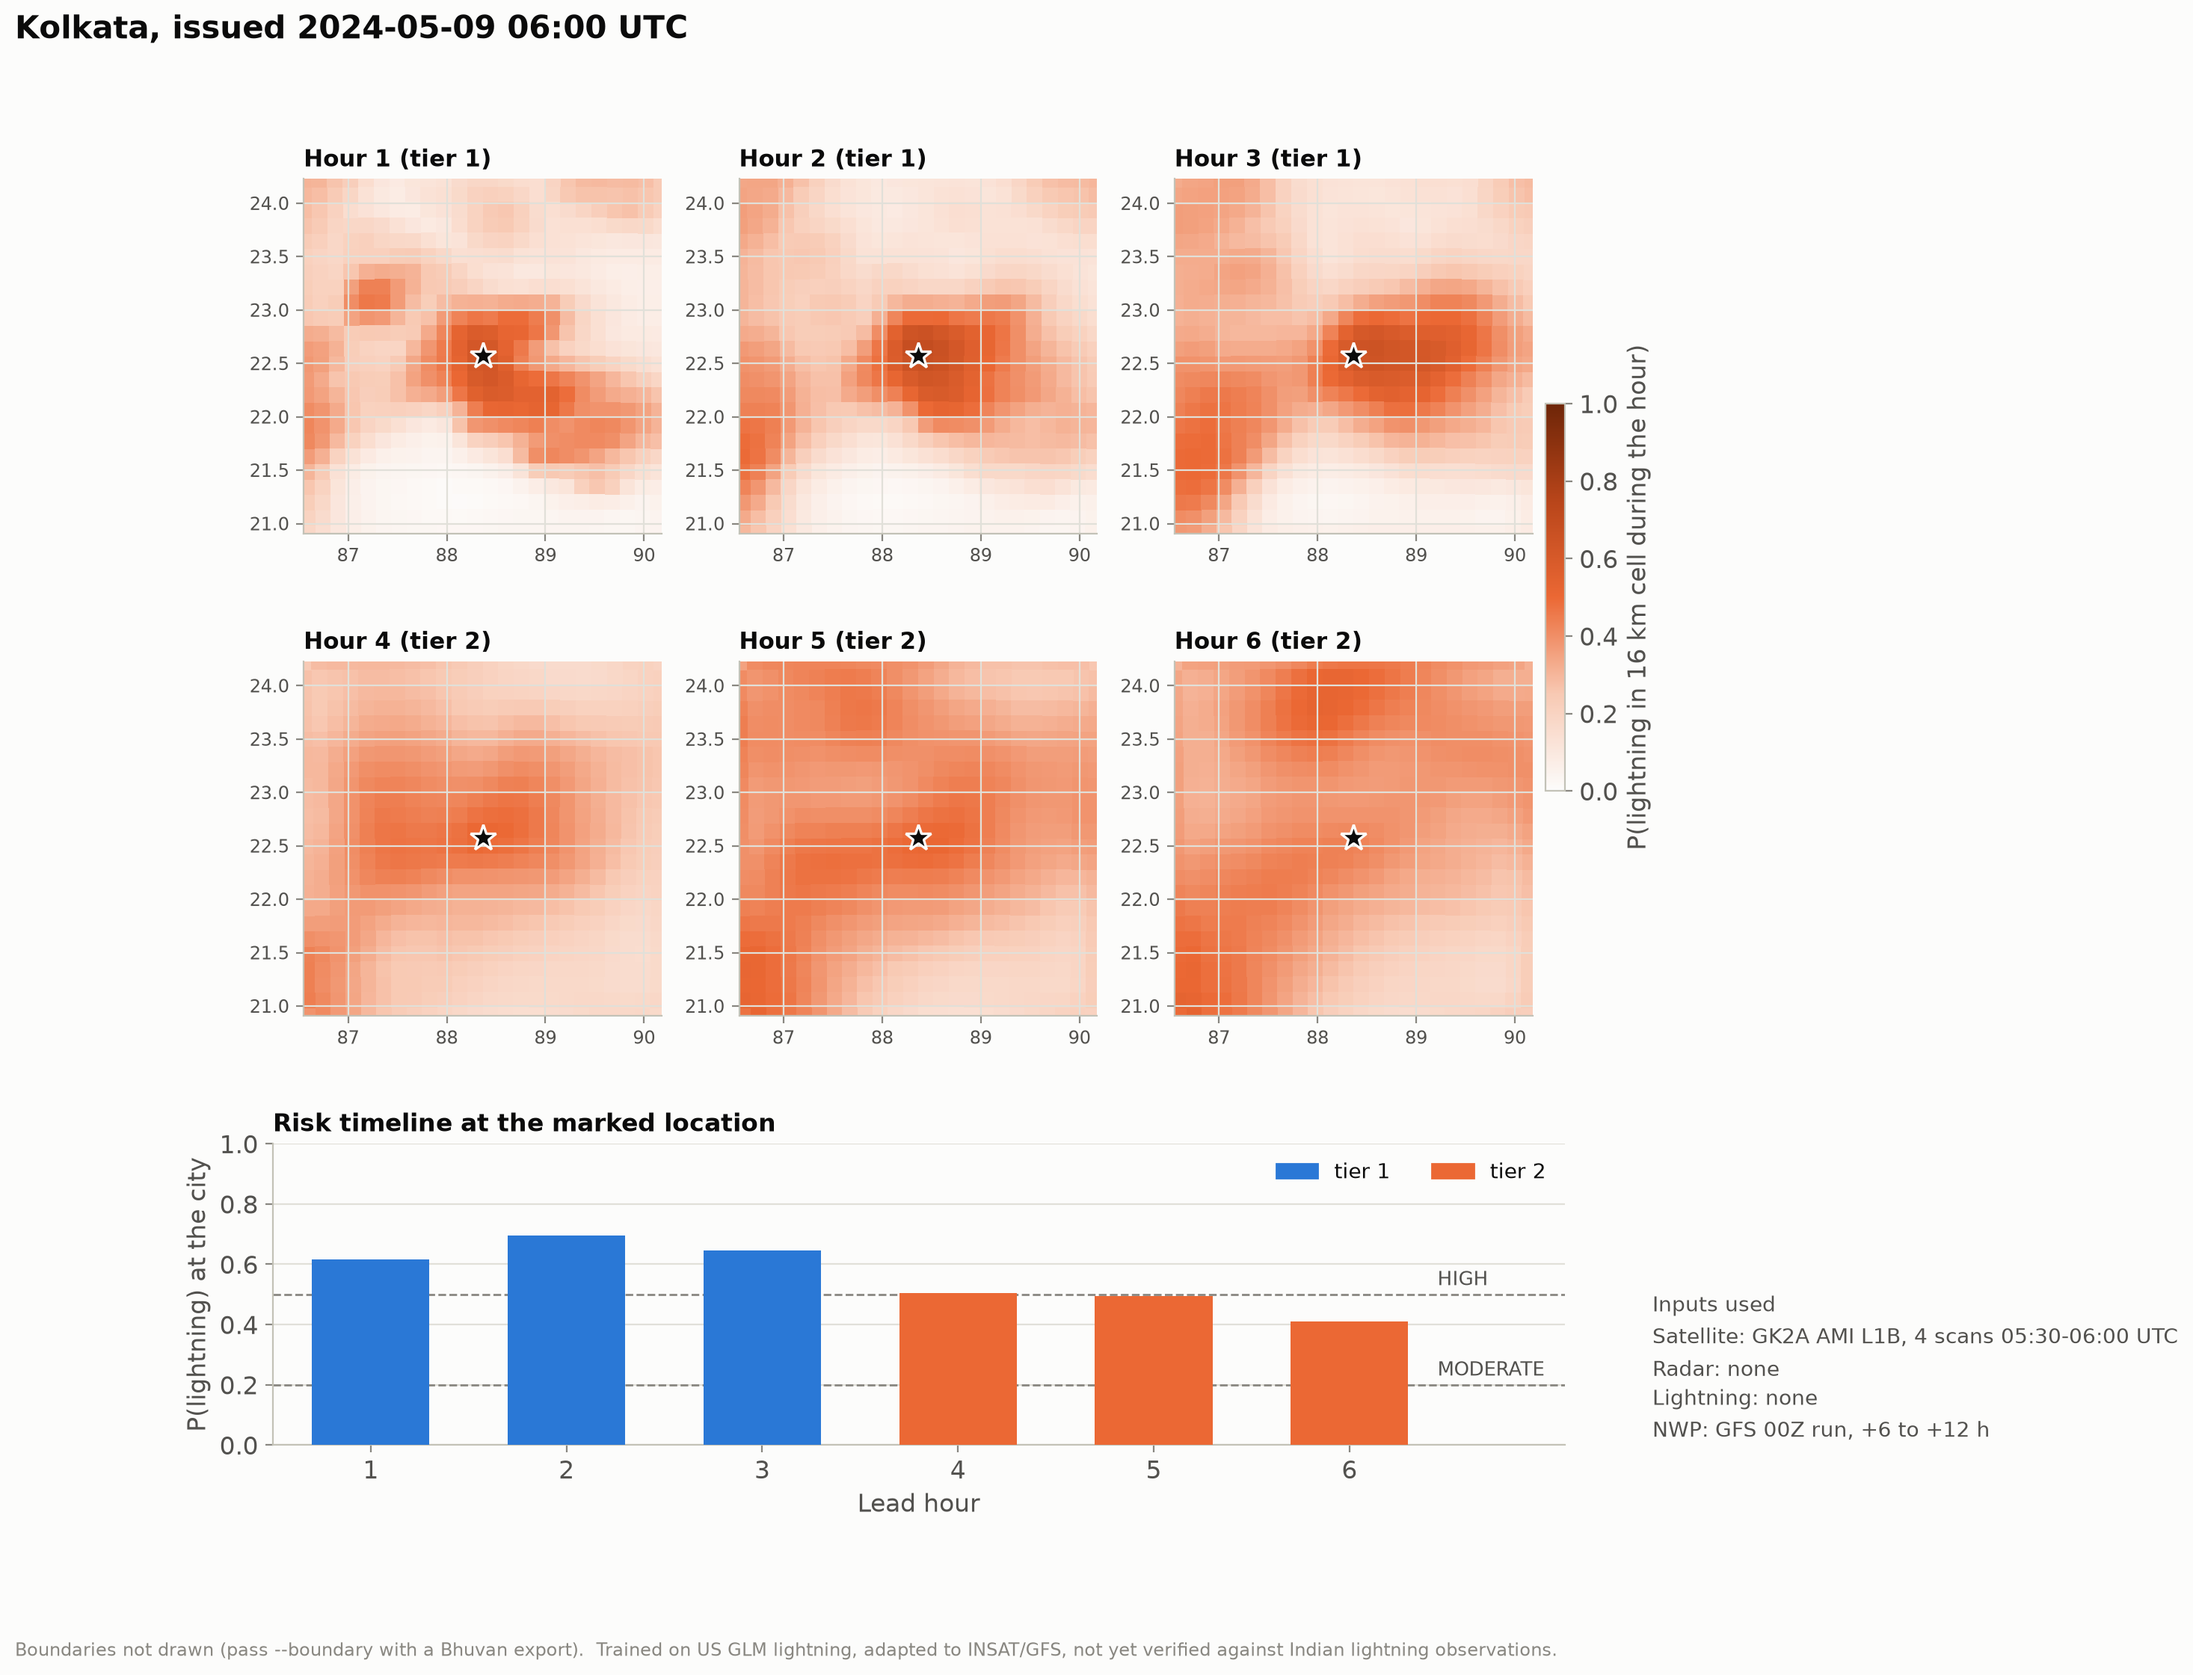
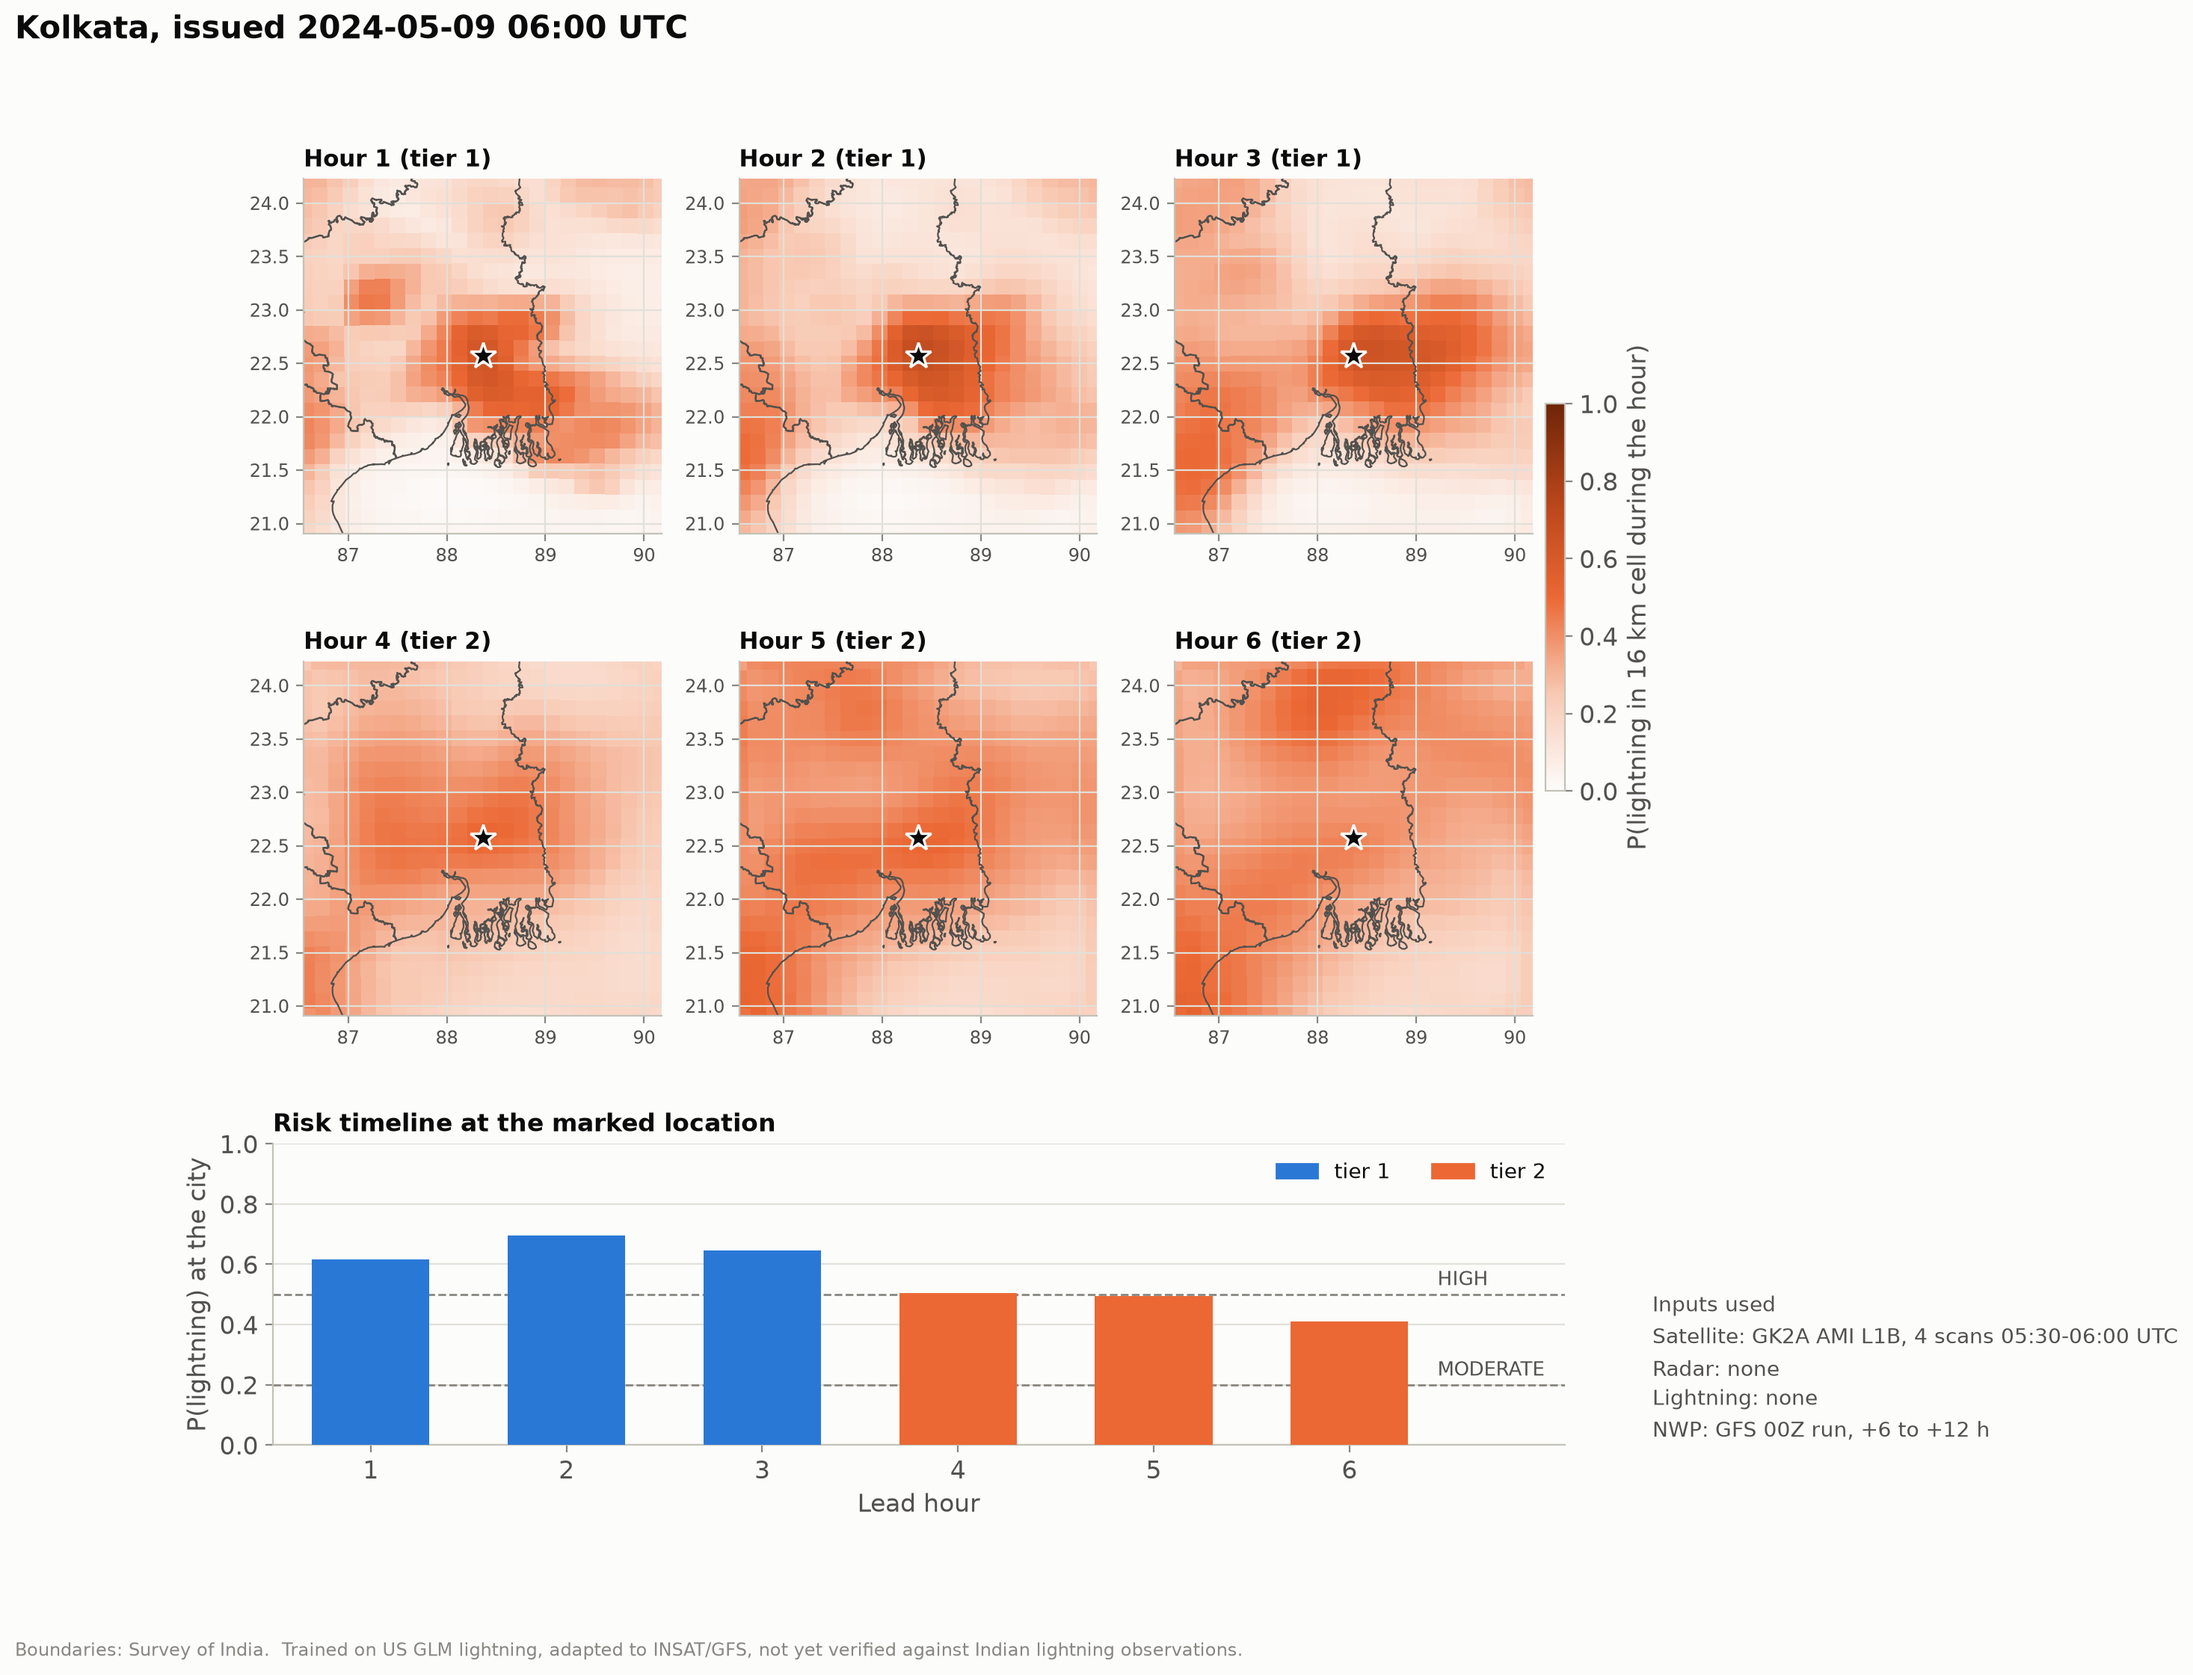
draw survey of india state boundaries on india maps

diff --git a/scripts/make_figures.py b/scripts/make_figures.py
@@ -9,11 +9,11 @@
   fig6_india_<case>.png   India case: hourly lightning probability maps and the risk timeline
   scorecard.md            the fig1 numbers as a table
 
-India maps draw boundaries only from --boundary (GeoJSON exported from ISRO Bhuvan). Without it the
+India maps draw boundaries only from --boundary (Survey of India state GeoJSON). Without it the
 map has a lat/lon grid and no boundary lines; Natural Earth is never used.
 
   python scripts/make_figures.py --results results --out figures --switch-hour 3 \
-      --boundary data/bhuvan_india_states.geojson
+      --boundary data/boundaries/india_states.geojson
 """
 
 import argparse
@@ -388,7 +388,7 @@ def india_cases(res, out, boundary):
         name = tile_id if tile_id in CITIES else f"{point[0]:.2f}N {point[1]:.2f}E"
         fig.suptitle(f"{name}, issued {when[:4]}-{when[4:6]}-{when[6:8]} {when[9:11]}:{when[11:13]} UTC",
                      x=0.01, ha="left", fontsize=15, fontweight="bold")
-        footnote(fig, "Boundaries: ISRO Bhuvan." if lines else "Boundaries not drawn (pass --boundary with a Bhuvan export).")
+        footnote(fig, "Boundaries: Survey of India." if lines else "Boundaries not drawn (pass --boundary).")
         save(fig, out, f"fig6_india_{stem}.png")
 
 
@@ -397,7 +397,7 @@ def main():
     ap.add_argument("--results", default="results")
     ap.add_argument("--out", default="figures")
     ap.add_argument("--switch-hour", type=int, help="default: first hour where tier 2 beats tier 1, minus one")
-    ap.add_argument("--boundary", help="GeoJSON of India boundaries exported from ISRO Bhuvan")
+    ap.add_argument("--boundary", help="GeoJSON of official India boundaries (Survey of India depiction)")
     ap.add_argument("--examples", type=int, default=4, help="forecast example figures to draw")
     args = ap.parse_args()
     os.makedirs(args.out, exist_ok=True)

diff --git a/CLAUDE.md b/CLAUDE.md
@@ -72,10 +72,12 @@ The code is done; the remaining work is running it and presenting results.
 ## Rules
 - **Cut order if short on time:** pySTEPS → tier-2 hours 5–6 → radar-only control → burst.
 - **Never cut:** the scorecard, one India run, and the honest label.
-- **Never commit** `shards/ work/ runs/ ext/ *.pt`. Run `pytest -q` (35 pass) before committing.
+- **Never commit** `shards/ work/ runs/ ext/ *.pt`. Run `pytest -q` (38 pass) before committing.
 - **Report numbers as measured.** Compare models at equal `samples`.
 - **Always say:** "trained on US GLM lightning, adapted to INSAT/GFS, not yet verified against Indian lightning observations".
-- **India maps** use ISRO Bhuvan boundaries, never Natural Earth.
+- **India maps** use Survey of India boundaries (official depiction), never Natural Earth.
+  - The file is `data/boundaries/india_states.geojson`: SoI OVSF/1M/7 state boundaries, reprojected to lat/lon.
+  - It is not in git; share it directly. Bhuvan only serves boundaries as images (its WFS is disabled).
 
 ## Team workflow
 - Commit with `/commit-and-push`. It asks which branch to push to and shows the message first.

diff --git a/STEPS.md b/STEPS.md
@@ -225,7 +225,7 @@ The website never runs the models. It reads static files exported from the pipel
 
 ```bash
 python scripts/export_site.py --results results --figures figures --cases site/cases.json --out site/public/data
-# add --boundary <ISRO Bhuvan India GeoJSON> for the map outline (never Natural Earth)
+# add --boundary data/boundaries/india_states.geojson (Survey of India) for the map outline (never Natural Earth)
 ```
 
 Run it on the server, where the India `.npz` map files exist, so map overlays are included. Re-run after every new India run.
